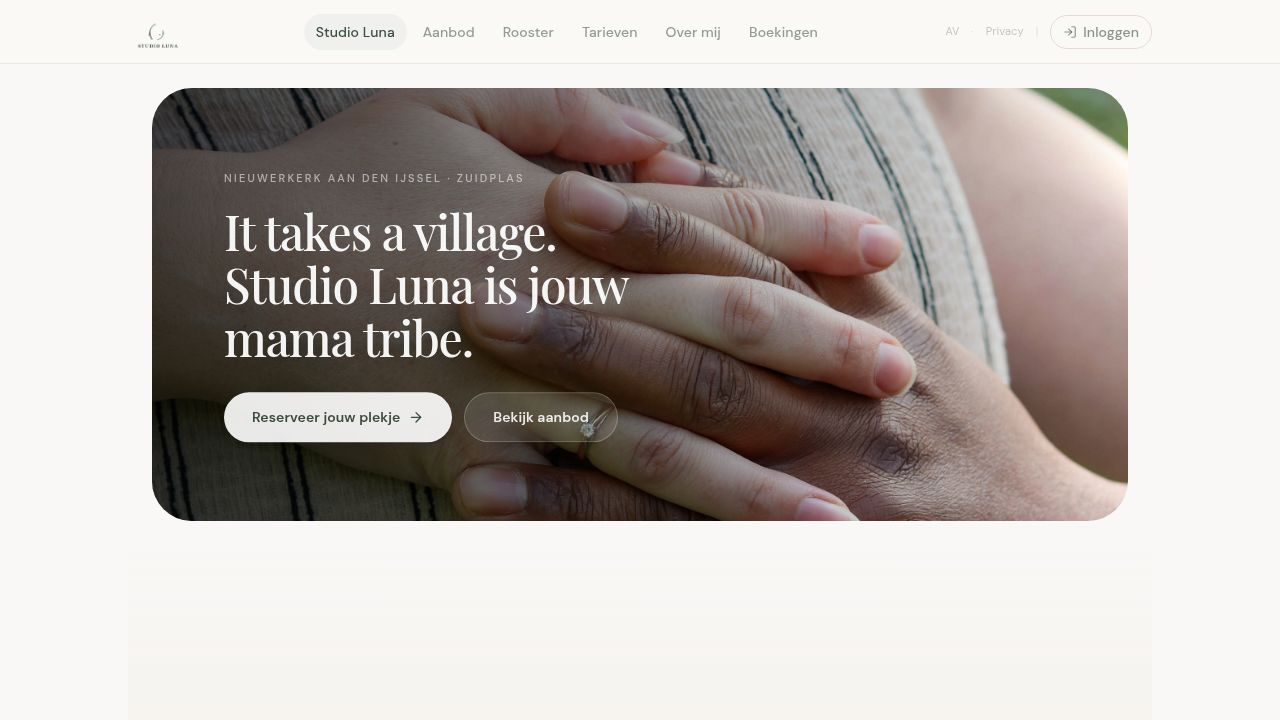
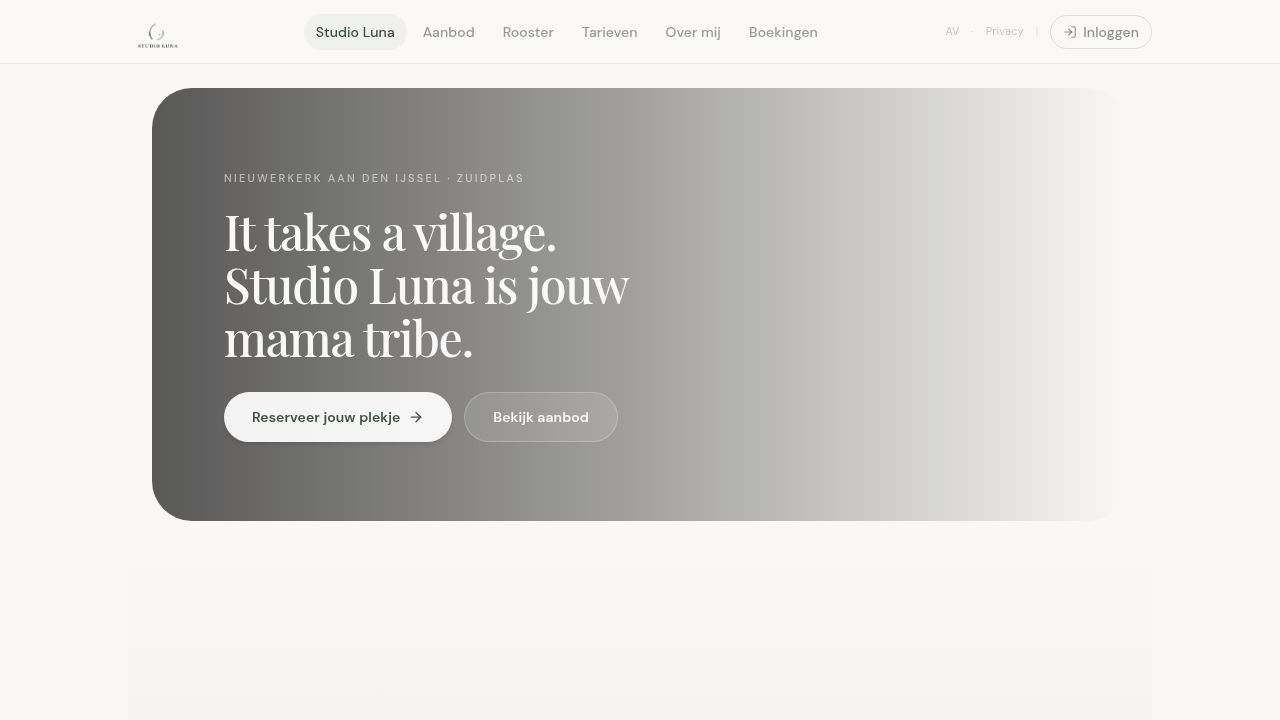
Make image uploads more robust and fix missing photos
Refactor image handling by separating photo data into dedicated database keys and updating the home page to conditionally render images, preventing fallback stock photos.

Replit-Commit-Author: Agent
Replit-Commit-Session-Id: 1759c118-f903-4281-b325-d58cca457fb7
Replit-Commit-Checkpoint-Type: full_checkpoint
Replit-Commit-Event-Id: 6758ff7b-7ada-49e8-a577-3c01fa5ca6be
Replit-Commit-Screenshot-Url: https://storage.googleapis.com/screenshot-production-us-central1/9b91657d-41d7-4cc6-8a3b-8f145517c067/1759c118-f903-4281-b325-d58cca457fb7/MsWl8YO
Replit-Helium-Checkpoint-Created: true

diff --git a/artifacts/api-server/src/routes/admin.ts b/artifacts/api-server/src/routes/admin.ts
@@ -13,6 +13,7 @@ import { getEmailSettings, saveEmailSettings } from "../lib/email-settings.js";
 import { readClassTypes, createClassType, updateClassType, deleteClassType } from "../lib/class-types.js";
 import { readTarieven, saveTarieven, addRittenkaart, updateRittenkaart, deleteRittenkaart, addSpecial, updateSpecial, deleteSpecial } from "../lib/tarieven.js";
 import { readPaginaTeksten, savePaginaTeksten } from "../lib/pagina-teksten.js";
+import { getAllFotos, setFoto, FOTO_KEYS, type FotoKey } from "../lib/foto-store.js";
 import { readReserveringen, createReservering, toggleAanwezig, deleteReservering } from "../lib/reserveringen.js";
 import { sendReservationConfirmation, sendReminderEmail } from "../lib/email.js";
 
@@ -336,11 +337,31 @@ router.patch("/admin/tarieven/volgorde", requireAdmin, async (req, res) => {
 // ─── PAGINA TEKSTEN ──────────────────────────────────────────────────────────
 
 router.get("/admin/pagina-teksten", requireAdmin, async (_req, res) => {
-  res.json(await readPaginaTeksten());
+  const [teksten, fotos] = await Promise.all([readPaginaTeksten(), getAllFotos()]);
+  res.json({ ...teksten, ...fotos });
 });
 
 router.patch("/admin/pagina-teksten", requireAdmin, async (req, res) => {
-  res.json(await savePaginaTeksten(req.body));
+  const body = req.body as Record<string, any>;
+  // Foto-velden apart opslaan in eigen DB-sleutels
+  const fotoSaves = FOTO_KEYS.filter((k) => k in body).map((k) => setFoto(k as FotoKey, body[k]));
+  const [saved] = await Promise.all([savePaginaTeksten(body), ...fotoSaves]);
+  const fotos = await getAllFotos();
+  res.json({ ...saved, ...fotos });
+});
+
+// Directe foto-route voor toekomstige uploads
+router.patch("/admin/foto/:key", requireAdmin, async (req, res) => {
+  const key = req.params.key as FotoKey;
+  if (!(FOTO_KEYS as readonly string[]).includes(key)) {
+    res.status(400).json({ error: "Onbekende foto-sleutel" }); return;
+  }
+  const { data } = req.body as { data: string };
+  if (typeof data !== "string") {
+    res.status(400).json({ error: "Verwacht { data: string }" }); return;
+  }
+  await setFoto(key, data);
+  res.json({ ok: true });
 });
 
 // ─── RESERVERINGEN ───────────────────────────────────────────────────────────

diff --git a/artifacts/api-server/src/lib/pagina-teksten.ts b/artifacts/api-server/src/lib/pagina-teksten.ts
@@ -1,7 +1,10 @@
 import Database from "@replit/database";
+import { FOTO_KEYS, migrateFotosIfNeeded } from "./foto-store";
 
 const db = new Database();
 const KEY = "studio_luna:pagina_teksten";
+
+const FOTO_FIELD_SET = new Set<string>(FOTO_KEYS);
 
 export type PaginaTeksten = {
   // Studio Luna pagina
@@ -103,21 +106,34 @@ const DEFAULT: PaginaTeksten = {
     "Bij Studio Luna geloven we in de kracht van de 'village'. Naast de fysieke lessen creëren we een veilige cirkel waarin je ervaringen deelt, vragen stelt en naar elkaar omkijkt. We gebruiken zachte yoga- en ademhalingsoefeningen om samen te vertragen, zodat er ruimte ontstaat om echt te luisteren naar jezelf en elkaar. Echte verbinding met andere zwangeren en mama's in Zuidplas!",
 };
 
+/** Strip base64 foto-velden — die worden in aparte DB-sleutels opgeslagen */
+function stripFotoFields(data: Record<string, any>): Record<string, any> {
+  return Object.fromEntries(Object.entries(data).filter(([k]) => !FOTO_FIELD_SET.has(k)));
+}
+
 export async function readPaginaTeksten(): Promise<PaginaTeksten> {
   try {
     const result = (await db.get(KEY)) as any;
     if (result?.ok === false) return DEFAULT;
     const data = result?.value ?? result;
     if (!data || typeof data !== "object") return DEFAULT;
-    return { ...DEFAULT, ...data } as PaginaTeksten;
+    // Eénmalige migratie: als er foto-data in het oude object zit, verplaats naar eigen sleutels
+    await migrateFotosIfNeeded(data as Record<string, any>);
+    // Strip foto-velden zodat het teksten-object licht blijft
+    const stripped = stripFotoFields(data as Record<string, any>);
+    return { ...DEFAULT, ...stripped } as PaginaTeksten;
   } catch {
     return DEFAULT;
   }
 }
 
-export async function savePaginaTeksten(updates: Partial<PaginaTeksten>): Promise<PaginaTeksten> {
+export async function savePaginaTeksten(
+  updates: Partial<PaginaTeksten>
+): Promise<PaginaTeksten> {
   const current = await readPaginaTeksten();
-  const updated = { ...current, ...updates };
+  // Sla nooit base64 foto-data op in het teksten-object
+  const safeUpdates = stripFotoFields(updates as Record<string, any>);
+  const updated = { ...current, ...safeUpdates };
   await db.set(KEY, updated);
-  return updated;
+  return updated as PaginaTeksten;
 }

diff --git a/artifacts/studio-luna/src/pages/home.tsx b/artifacts/studio-luna/src/pages/home.tsx
@@ -221,18 +221,17 @@ export default function Home() {
                 viewport={{ once: true, margin: "-80px" }} custom={0.2}
                 className="md:pt-24 mt-10 md:mt-0"
               >
-                {/* Foto als sfeerblok — portret formaat */}
-                <div className="overflow-hidden rounded-2xl mb-8" style={{ aspectRatio: RATIO_MAP[teksten.foto_circle_hoogte] ?? "4/3" }}>
-                  <img
-                    src={photosReady ? (teksten.foto_circle || IMAGES.circle) : undefined}
-                    alt="Mama Circle Studio Luna"
-                    className="w-full h-full object-cover transition-opacity duration-700"
-                    style={{
-                      objectPosition: POS_MAP[teksten.foto_circle_positie] ?? "center",
-                      opacity: photosReady ? 1 : 0,
-                    }}
-                  />
-                </div>
+                {/* Eigen foto tonen zodra geüpload — anders geen placeholder */}
+                {photosReady && teksten.foto_circle && (
+                  <div className="overflow-hidden rounded-2xl mb-8" style={{ aspectRatio: RATIO_MAP[teksten.foto_circle_hoogte] ?? "4/3" }}>
+                    <img
+                      src={teksten.foto_circle}
+                      alt="Mama Circle Studio Luna"
+                      className="w-full h-full object-cover"
+                      style={{ objectPosition: POS_MAP[teksten.foto_circle_positie] ?? "center" }}
+                    />
+                  </div>
+                )}
 
                 <button
                   onClick={() => setIsInterestOpen(true)}

diff --git a/artifacts/api-server/src/lib/foto-store.ts b/artifacts/api-server/src/lib/foto-store.ts
@@ -1,0 +1,41 @@
+import Database from "@replit/database";
+
+const db = new Database();
+
+export const FOTO_KEYS = ["foto_hero", "foto_yoga", "foto_circle", "over_mij_foto"] as const;
+export type FotoKey = typeof FOTO_KEYS[number];
+
+const dbKey = (k: FotoKey) => `studio_luna:foto:${k}`;
+
+export async function getFoto(key: FotoKey): Promise<string> {
+  try {
+    const result = (await db.get(dbKey(key))) as any;
+    if (result?.ok === false) return "";
+    const data = result?.value ?? result;
+    return typeof data === "string" ? data : "";
+  } catch {
+    return "";
+  }
+}
+
+export async function setFoto(key: FotoKey, data: string): Promise<void> {
+  await db.set(dbKey(key), data);
+}
+
+export async function getAllFotos(): Promise<Record<FotoKey, string>> {
+  const results = await Promise.all(FOTO_KEYS.map((k) => getFoto(k)));
+  return Object.fromEntries(FOTO_KEYS.map((k, i) => [k, results[i]])) as Record<FotoKey, string>;
+}
+
+/**
+ * Migreer foto-data die vroeger in het pagina-teksten object zat naar aparte sleutels.
+ * Wordt één keer uitgevoerd als de nieuwe sleutels nog leeg zijn.
+ */
+export async function migrateFotosIfNeeded(oldData: Record<string, any>): Promise<void> {
+  for (const key of FOTO_KEYS) {
+    const existing = await getFoto(key);
+    if (!existing && oldData[key] && typeof oldData[key] === "string" && oldData[key].length > 10) {
+      await setFoto(key, oldData[key]);
+    }
+  }
+}

diff --git a/artifacts/api-server/src/routes/index.ts b/artifacts/api-server/src/routes/index.ts
@@ -18,6 +18,7 @@ import { sendReservationConfirmation } from "../lib/email.js";
 import { readClasses } from "../lib/classes.js";
 import { getAllBookings } from "../lib/bookings.js";
 import { readPaginaTeksten } from "../lib/pagina-teksten.js";
+import { getAllFotos } from "../lib/foto-store.js";
 
 const router: IRouter = Router();
 
@@ -39,9 +40,10 @@ router.get("/tarieven", async (_req, res) => {
   res.json(await readTarieven());
 });
 
-// Publieke pagina-teksten endpoint
+// Publieke pagina-teksten endpoint (inclusief foto's van aparte sleutels)
 router.get("/pagina-teksten", async (_req, res) => {
-  res.json(await readPaginaTeksten());
+  const [teksten, fotos] = await Promise.all([readPaginaTeksten(), getAllFotos()]);
+  res.json({ ...teksten, ...fotos });
 });
 
 // Reservering voor openingsreeks (publiek, geen login nodig)
